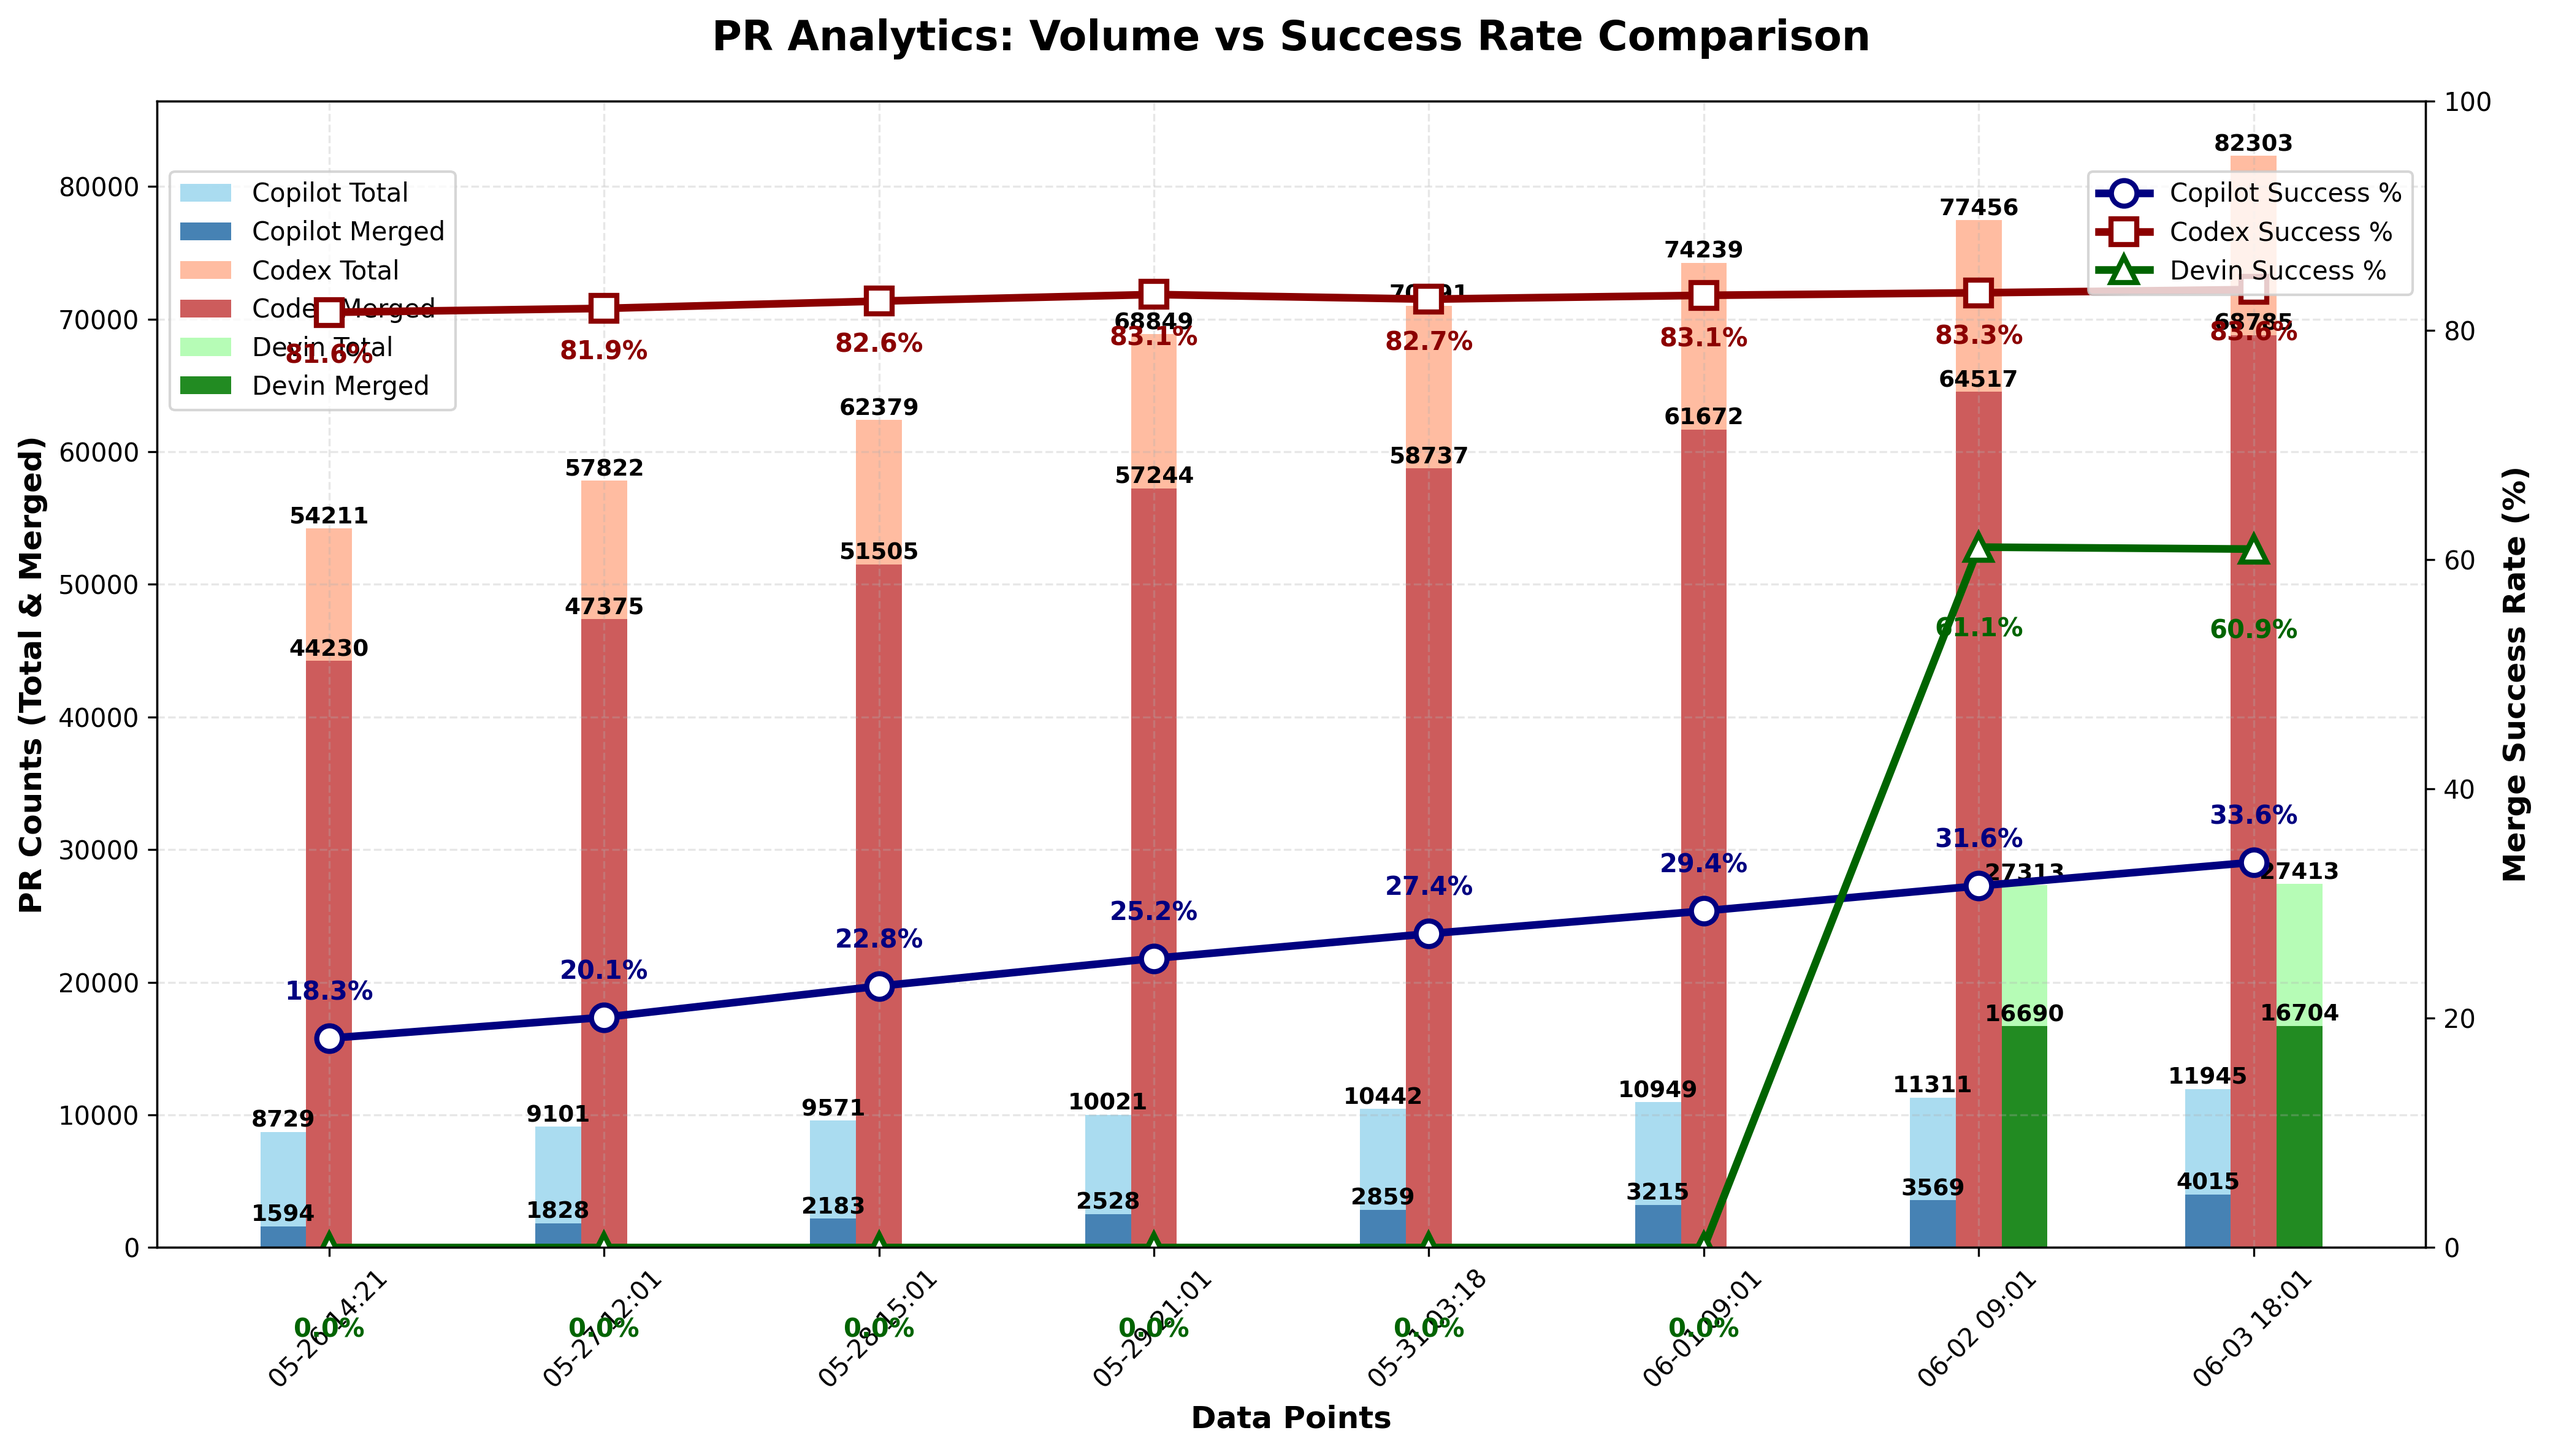
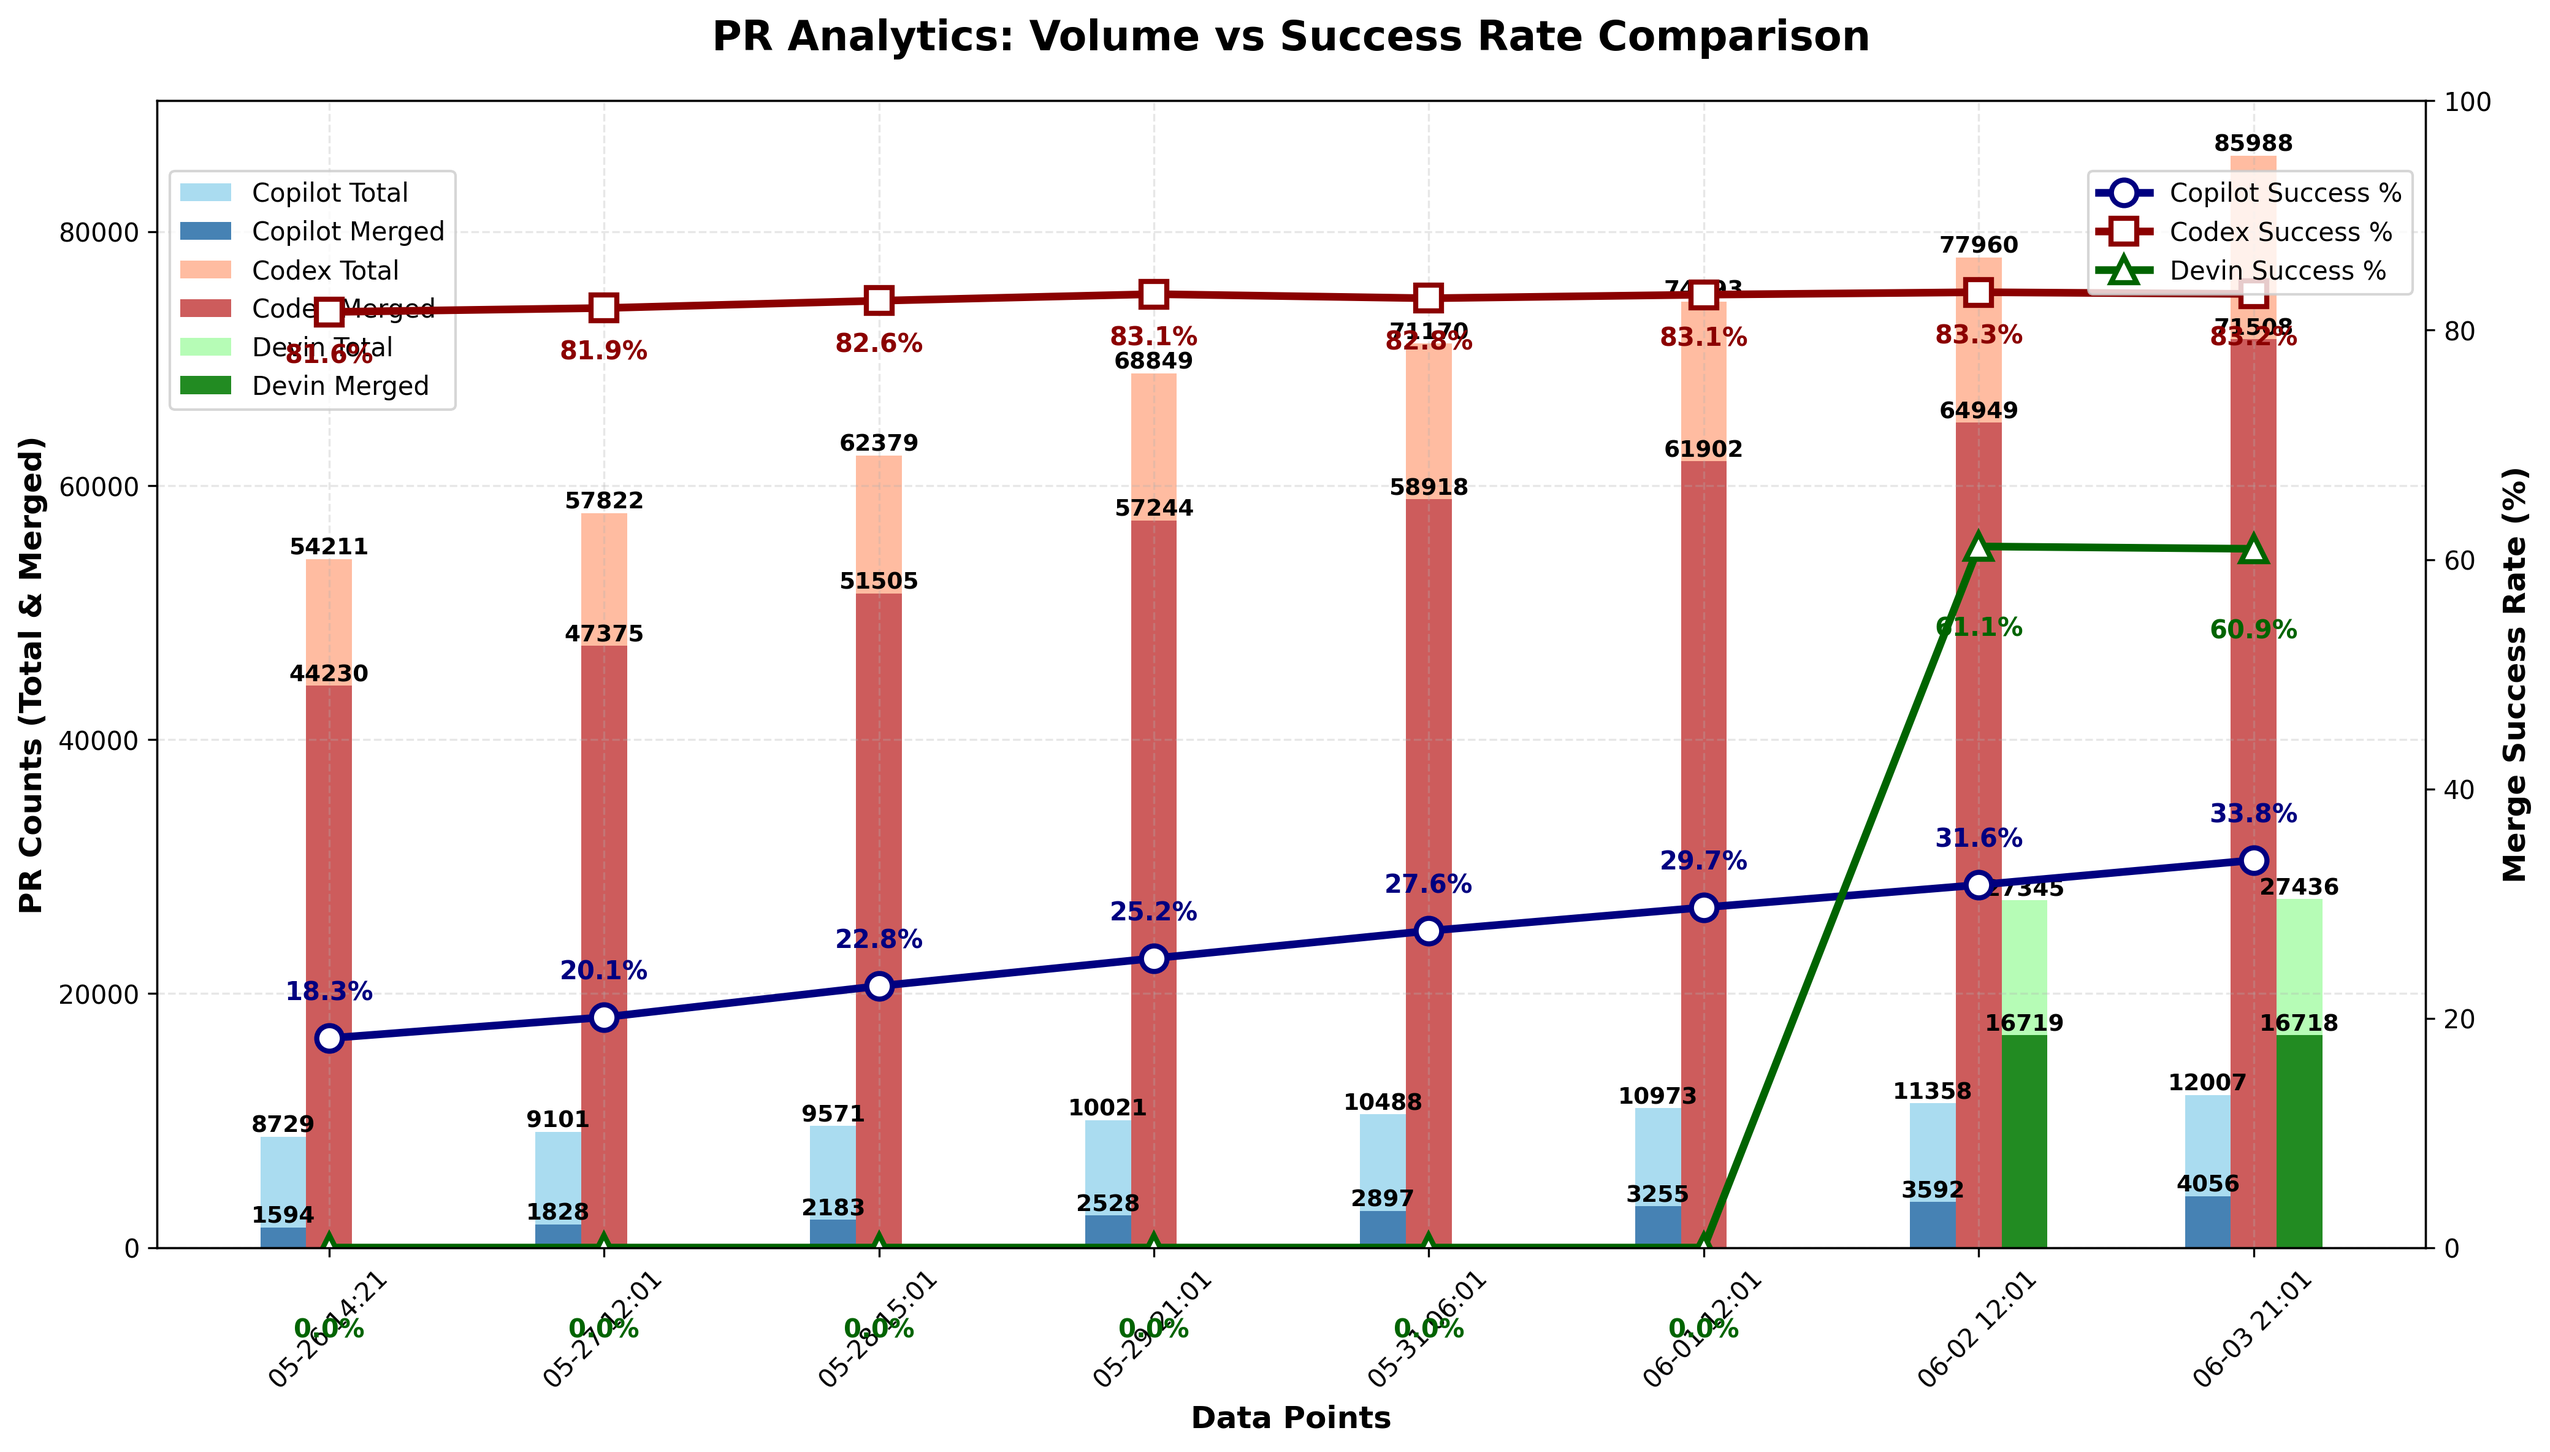
chore: update PR‑approval chart

diff --git a/docs/index.html b/docs/index.html
@@ -46,22 +46,22 @@
                 <tbody>
                     <tr>
                         <td>Copilot</td>
-                        <td>11,945</td>
-                        <td>4,015</td>
-                        <td>33.61%</td>
+                        <td>12,007</td>
+                        <td>4,056</td>
+                        <td>33.78%</td>
                     </tr>
                     <tr>
                         <td>Codex</td>
-                        <td>82,303</td>
-                        <td>68,785</td>
-                        <td>83.58%</td>
+                        <td>85,988</td>
+                        <td>71,508</td>
+                        <td>83.16%</td>
                     </tr>
                 </tbody>
             </table>
         </section>
 
         <footer>
-            <p>Last updated: <span id="last-updated">June 03, 2025 18:01 UTC</span></p>
+            <p>Last updated: <span id="last-updated">June 03, 2025 21:01 UTC</span></p>
             <p><a href="https://github.com/aavetis/ai-pr-watcher">View on GitHub</a></p>
         </footer>
     </div>

diff --git a/README.md b/README.md
@@ -21,6 +21,6 @@ Explore the GitHub search queries used:
 
 | Project | Total PRs | Merged PRs | Merge Rate |
 | ------- | --------- | ---------- | ---------- |
-| Copilot | 11,945 | 4,015 | 33.61% |
-| Codex   | 82,303 | 68,785 | 83.58% |
-| Devin   | 27,413 | 16,704 | 60.93% |
+| Copilot | 12,007 | 4,056 | 33.78% |
+| Codex   | 85,988 | 71,508 | 83.16% |
+| Devin   | 27,436 | 16,718 | 60.93% |
